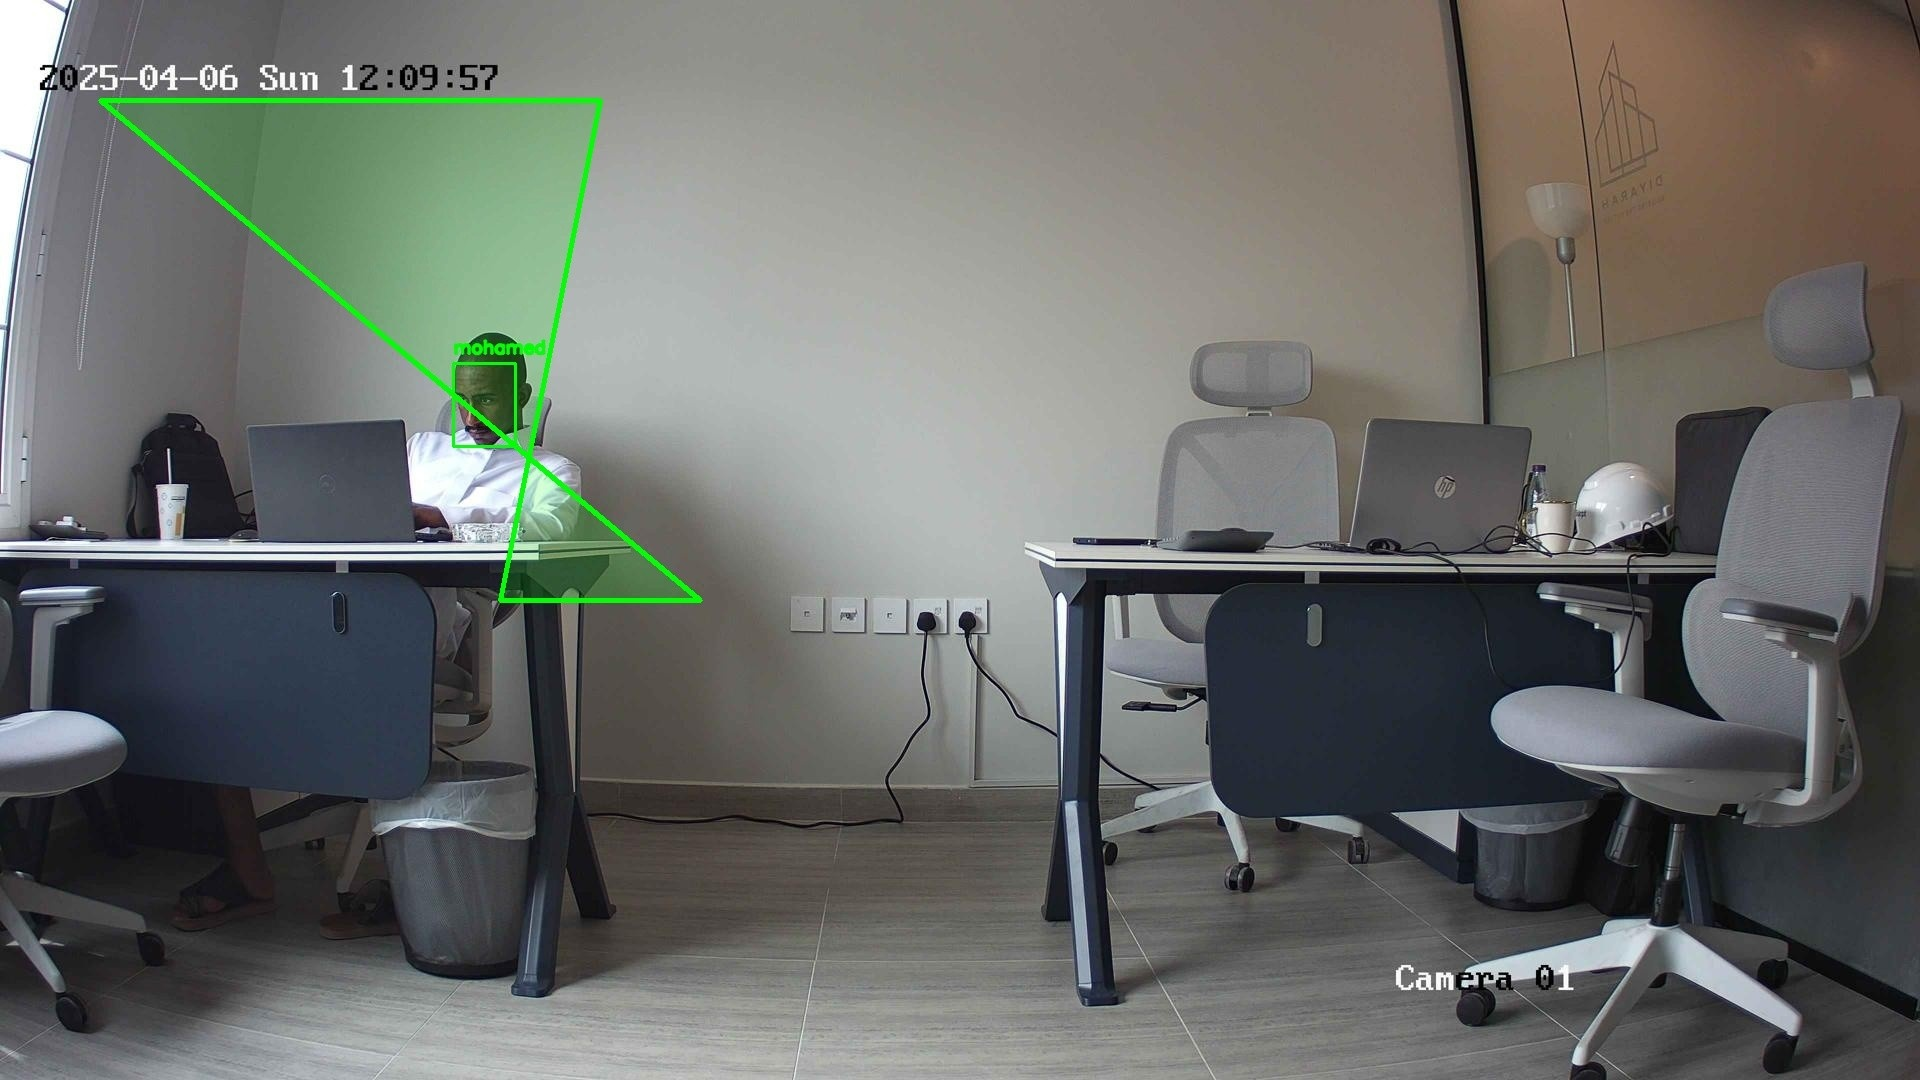
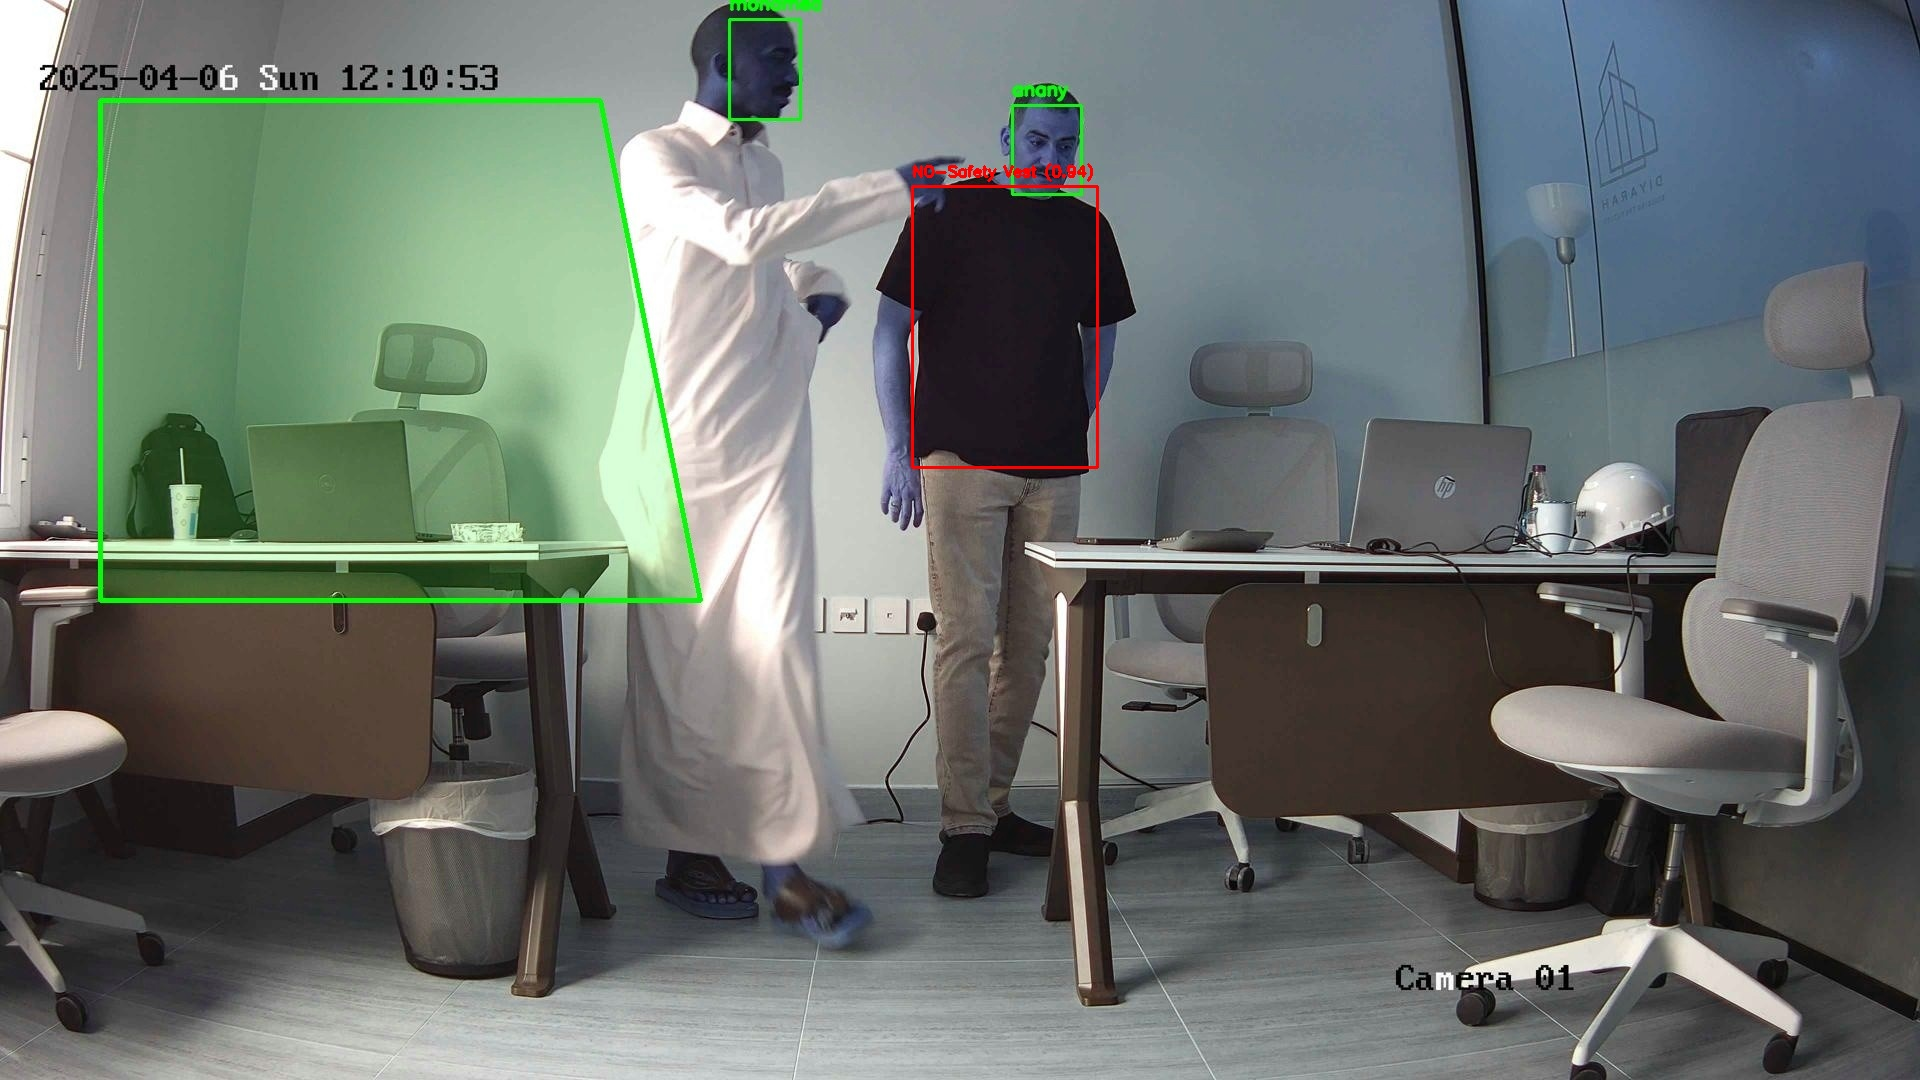
d

diff --git a/frame.py b/frame.py
@@ -1,3 +1,4 @@
+import json
 import time
 import cv2
 import numpy as np
@@ -13,10 +14,15 @@ from safe2 import *
 from match import *
 from datetime import date
 from pymongo import MongoClient
-
+import requests
 from time_table import calc_time
 
-
+home_assistant_url = "http://homeassistant.local:8123/api/states/sensor.face_recognition"
+access_token = "eyJhbGciOiJIUzI1NiIsInR5cCI6IkpXVCJ9.eyJpc3MiOiIyZjJmYjU1MDNjY2E0MTAxYTJkNDY5ZGM5MjQ4NzZiZiIsImlhdCI6MTc0NDExNDkyMiwiZXhwIjoyMDU5NDc0OTIyfQ.lqouYGvta5yAePjdy6vgLYYIlcprIK-cf1baDI5QcGc"  # Replace with yours
+headers = {
+    "Authorization": f"Bearer {access_token}",
+    "Content-Type": "application/json",
+}
 client = MongoClient("mongodb+srv://bahey6224:skarpt@atlascluster.x07b3pp.mongodb.net/?retryWrites=true&w=majority&appName=AtlasCluster")
 # Send a ping to confirm a successful connection
 
@@ -76,7 +82,7 @@ def recognize_face(face_embedding, threshold=0.17):
 
 while True:
     start=time.time()
-    image= cv2.imread("test.jpg")
+    image= cv2.imread("screenshots/image1743930652.jpg")
     frame = np.array(image)
     frame = cv2.cvtColor(frame, cv2.COLOR_RGB2BGR)  # Convert to OpenCV BGR format
     
@@ -175,12 +181,30 @@ while True:
         # Convert final processed image to Base64
         with open(final_image_path, "rb") as img_file:
             processed_image_base64 = base64.b64encode(img_file.read()).decode("utf-8")
-
-            
-            
+        response = {
+        "recognized_names": recognized_names,
+        "image_base64": processed_image_base64
+    }
+        json_response = json.dumps(response)
+                
+        data = {
+            "state": ", ".join(response["recognized_names"]),  # example: "Alice, Bob"
+            "attributes": {
+                "image_base64": response["image_base64"]
+            }
+        }
 
         
     else:
         recognized_names = ["No face detected"]
+        data = {
+            "state": ", ".join(recognized_names),
+            
+        }
+    r = requests.post(home_assistant_url, headers=headers, json=data)
+    print(r.status_code)
+    print(r.json())
     end=time.time()
+    #send img in json 
+    
     print(f"Time taken: {end-start}")
